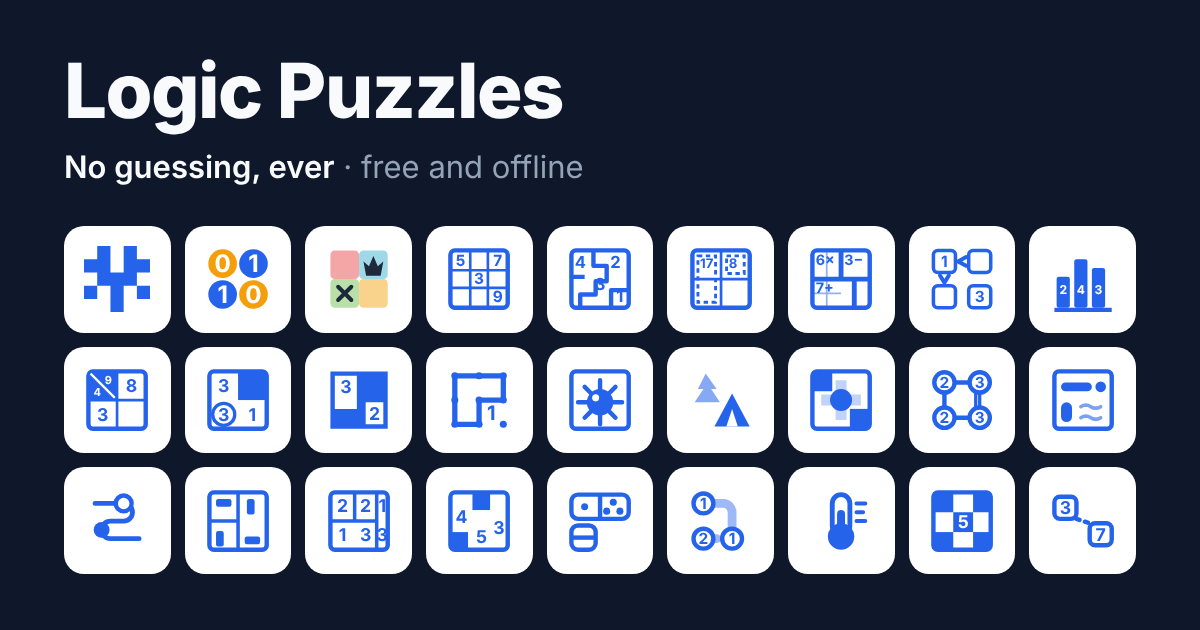
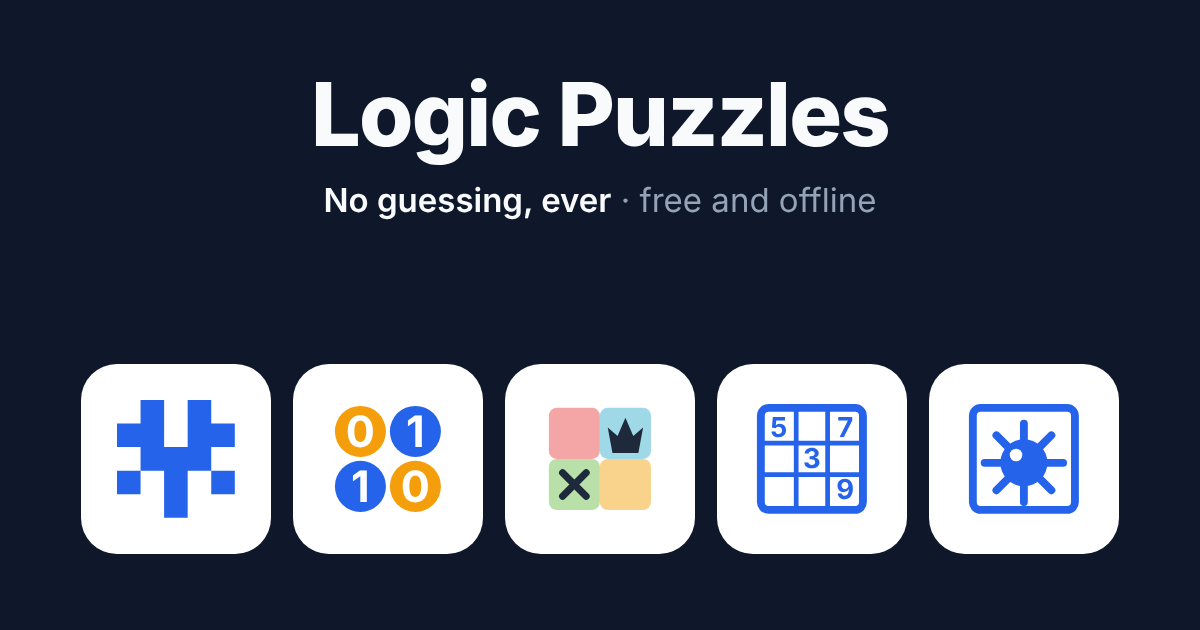
Lay out the share picture for small, square-cropped thumbnails
Some services crop the picture to its middle square and show it at around
140 px. The title was left-aligned and would be cut, and 27 small icons
were unreadable at that size. The title is now centred and five large icons
replace the full grid; the title and the middle three icons fit inside the
central square.

The picture no longer lists every game, so it does not need redrawing when
one is added.

Claude-Session: https://claude.ai/code/session_0149otenkSGxeBrhhpuoUHBx

diff --git a/CONTRIBUTING.md b/CONTRIBUTING.md
@@ -23,7 +23,5 @@ npm run build    # type-check + production build
   for rules).
 - A new game lives in `src/games/<game>/` and is registered in `src/games/registry.ts` and
   `src/games/generators.ts`. See the project layout in the [README](README.md).
-- The share picture `public/og.png` shows every game's icon. `npm run og` redraws it (it needs
-  Playwright, see `scripts/generate-og.mjs`); a maintainer can do this after a new game lands.
 
 By contributing you agree that your contributions are licensed under the [MIT License](LICENSE).
